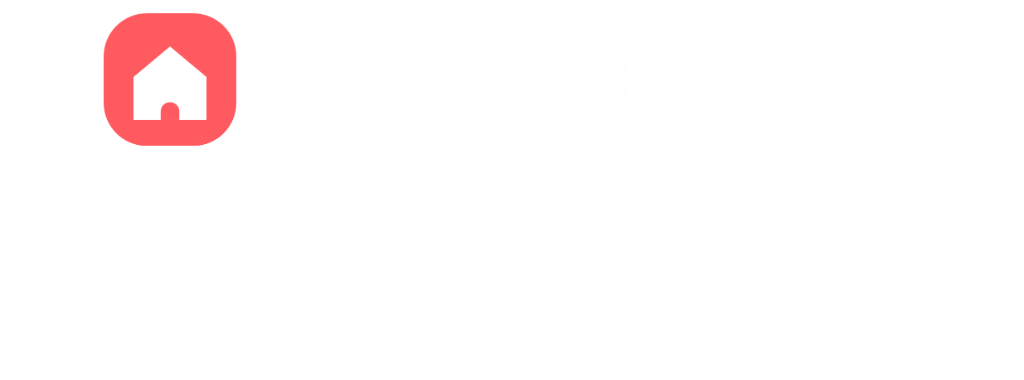
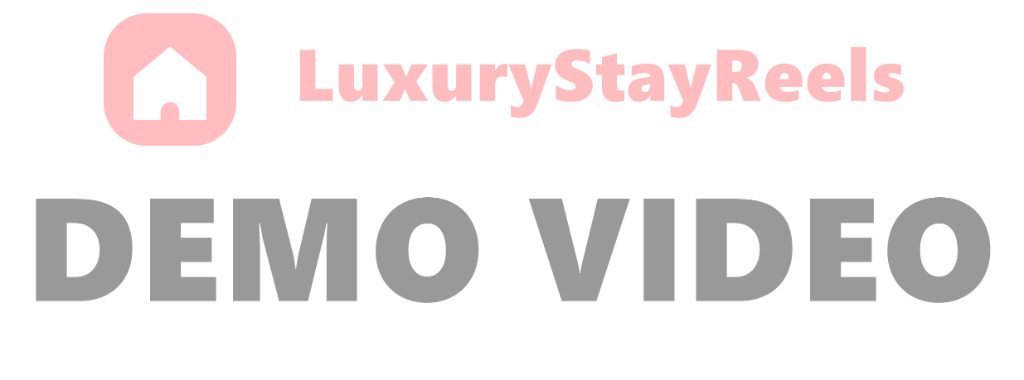
Take the landing name from the video file, soften the watermark, and show the processor download instead of hanging.

diff --git a/admin/reel-upload.js b/admin/reel-upload.js
@@ -1,5 +1,5 @@
 import { FFmpeg } from "https://cdn.jsdelivr.net/npm/@ffmpeg/ffmpeg@0.12.10/dist/esm/index.js";
-import { fetchFile, toBlobURL } from "https://cdn.jsdelivr.net/npm/@ffmpeg/util@0.12.1/dist/esm/index.js";
+import { fetchFile } from "https://cdn.jsdelivr.net/npm/@ffmpeg/util@0.12.1/dist/esm/index.js";
 
 const MAX_BYTES = 150 * 1024 * 1024;
 const MAX_SECONDS = 240;
@@ -29,23 +29,63 @@ function googleMessage(text, fallback) {
   return fallback;
 }
 
-async function engine() {
+function withTimeout(promise, ms, message) {
+  return new Promise((resolve, reject) => {
+    const timer = setTimeout(() => reject(new Error(message)), ms);
+    promise.then(
+      (value) => {
+        clearTimeout(timer);
+        resolve(value);
+      },
+      (err) => {
+        clearTimeout(timer);
+        reject(err);
+      }
+    );
+  });
+}
+
+async function preload(url, onRatio) {
+  const response = await fetch(url);
+  if (!response.ok || !response.body) throw new Error("download");
+  const total = Number(response.headers.get("content-length")) || 32 * 1024 * 1024;
+  const reader = response.body.getReader();
+  let received = 0;
+  while (true) {
+    const { done, value } = await reader.read();
+    if (done) break;
+    received += value.byteLength;
+    onRatio(Math.min(1, received / total));
+  }
+}
+
+async function engine(onProgress) {
   if (!ffmpegPromise) {
+    const report = onProgress || (() => {});
     ffmpegPromise = (async () => {
       const ffmpeg = new FFmpeg();
       ffmpeg.on("progress", ({ progress }) => onEncode(progress));
       const core = "https://cdn.jsdelivr.net/npm/@ffmpeg/core@0.12.6/dist/esm";
-      const worker = "https://cdn.jsdelivr.net/npm/@ffmpeg/ffmpeg@0.12.10/dist/esm/worker.js";
-      await ffmpeg.load({
-        coreURL: await toBlobURL(`${core}/ffmpeg-core.js`, "text/javascript"),
-        wasmURL: await toBlobURL(`${core}/ffmpeg-core.wasm`, "application/wasm"),
-        classWorkerURL: await toBlobURL(worker, "text/javascript"),
-      });
+      report(0.02);
+      await preload(`${core}/ffmpeg-core.wasm`, (ratio) => report(0.05 + ratio * 0.85));
+      await withTimeout(
+        ffmpeg.load({
+          coreURL: `${core}/ffmpeg-core.js`,
+          wasmURL: `${core}/ffmpeg-core.wasm`,
+        }),
+        90000,
+        "Ο επεξεργαστής δεν άνοιξε. Κάνε ανανέωση και ξαναπροσπάθησε, ή χρησιμοποίησε το The Old Way."
+      );
+      report(1);
       return ffmpeg;
     })().catch((err) => {
       ffmpegPromise = null;
       console.error("[myreels/reel] load", err);
-      throw new Error("Ο επεξεργαστής βίντεο δεν φορτώθηκε. Ξαναπροσπάθησε ή χρησιμοποίησε το The Old Way.");
+      const message = String(err?.message || "");
+      if (!message || message === "download" || /failed to fetch|network/i.test(message)) {
+        throw new Error("Ο επεξεργαστής δεν κατέβηκε. Έλεγξε τη σύνδεση και ξαναπροσπάθησε, ή χρησιμοποίησε το The Old Way.");
+      }
+      throw new Error(message);
     });
   }
   return ffmpegPromise;
@@ -81,7 +121,7 @@ async function watermarked(file, audioUrl, markUrl, onProgress) {
     fail("Το βίντεο είναι πάνω από 4 λεπτά. Για τόσο μεγάλο αρχείο χρησιμοποίησε το The Old Way.");
   }
   onProgress({ phase: "load", ratio: 0 });
-  const ffmpeg = await engine();
+  const ffmpeg = await engine((ratio) => onProgress({ phase: "load", ratio }));
   onEncode = (progress) => onProgress({ phase: "encode", ratio: Math.max(0, Math.min(1, progress || 0)) });
   const ext = (/\.([a-z0-9]{2,4})$/i.exec(file.name || "") || [])[1]?.toLowerCase() || "mp4";
   const inputName = `in.${ext}`;

diff --git a/admin/admin.js b/admin/admin.js
@@ -2820,11 +2820,17 @@ MyReels`,
     const reelBar = document.getElementById("reel-upload-bar");
     const reelDone = document.getElementById("reel-upload-done");
     const phaseLabel = {
-      load: "Ετοιμάζεται ο επεξεργαστής…",
+      load: "Κατεβαίνει ο επεξεργαστής…",
       encode: "Μπαίνει το σήμα και ο ήχος…",
       drive: "Ανεβαίνει το καθαρό στο Drive…",
       youtube: "Ανεβαίνει το αντίγραφο στο YouTube…",
     };
+    const stayNameFromFile = (file) => stay.cleanName(String(file?.name || "").replace(/\.[^.]+$/, "")).slice(0, 80);
+    document.getElementById("reel-file")?.addEventListener("change", () => {
+      const picked = document.getElementById("reel-file")?.files?.[0];
+      const nameInput = document.getElementById("reel-name");
+      if (nameInput) nameInput.value = picked ? stayNameFromFile(picked) : "";
+    });
     reelGo?.addEventListener("click", async () => {
       if (!window.MyReelsUpload) {
         if (reelError) {
@@ -2834,7 +2840,9 @@ MyReels`,
         return;
       }
       const file = document.getElementById("reel-file")?.files?.[0];
-      const name = document.getElementById("reel-name")?.value || "";
+      const name = stayNameFromFile(file);
+      const nameInput = document.getElementById("reel-name");
+      if (nameInput) nameInput.value = name;
       if (reelError) reelError.hidden = true;
       if (reelDone) reelDone.hidden = true;
       if (!file) {
@@ -2847,7 +2855,7 @@ MyReels`,
       if (stay.cleanName(name).length < 2) {
         if (reelError) {
           reelError.hidden = false;
-          reelError.textContent = "Γράψε το όνομα του καταλύματος.";
+          reelError.textContent = "Το αρχείο χρειάζεται όνομα, π.χ. Ηλιοπετρόσπιτο.mp4.";
         }
         return;
       }
@@ -2866,12 +2874,14 @@ MyReels`,
         const uploaded = await window.MyReelsUpload.run({
           file,
           audioUrl: `/admin/brand/${audio}-demo.mp3`,
-          markUrl: "/admin/brand/watermark.png",
+          markUrl: "/admin/brand/watermark.png?v=2",
           name: stay.cleanName(name),
           creds: sessionCreds(),
           onProgress: ({ phase, ratio }) => {
-            if (reelStatus) reelStatus.textContent = phaseLabel[phase] || "Δουλεύει…";
-            if (reelBar) reelBar.style.width = `${Math.round((ratio || 0) * 100)}%`;
+            const label = phaseLabel[phase] || "Δουλεύει…";
+            const percent = Math.round((ratio || 0) * 100);
+            if (reelStatus) reelStatus.textContent = percent > 0 && percent < 100 ? `${label} ${percent}%` : label;
+            if (reelBar) reelBar.style.width = `${percent}%`;
           },
         });
         if (reelStatus) reelStatus.textContent = "Φτιάχνεται η landing…";

diff --git a/admin/index.html b/admin/index.html
@@ -195,7 +195,7 @@
           </label>
           <label class="field">
             <span>Όνομα καταλύματος</span>
-            <input type="text" id="reel-name" maxlength="80" placeholder="Ηλιοπετρόσπιτο" />
+            <input type="text" id="reel-name" maxlength="80" readonly placeholder="Βγαίνει από το όνομα του αρχείου" />
           </label>
           <div class="stay-prices">
             <label class="field">
@@ -718,7 +718,7 @@
 
   <script src="/services-data.js"></script>
   <script src="/stay-reel.js"></script>
-  <script type="module" src="/admin/reel-upload.js?v=1"></script>
-  <script src="/admin/admin.js?v=42"></script>
+  <script type="module" src="/admin/reel-upload.js?v=2"></script>
+  <script src="/admin/admin.js?v=43"></script>
 </body>
 </html>
